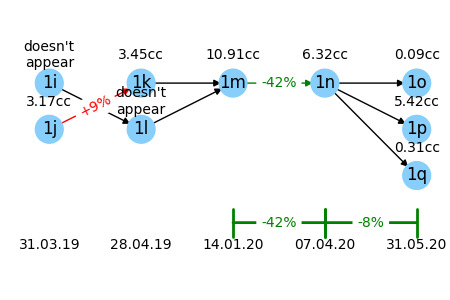
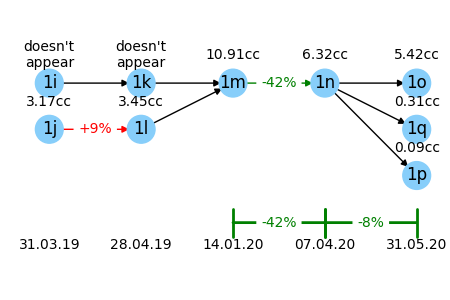
updated README.md

diff --git a/app.py b/app.py
@@ -182,6 +182,11 @@ def main():
                 if is_cc_non_consecutive:
                     st.session_state.non_consecutive_elements += st.session_state.cc_elements_dict[cc_idx]
 
+            # the case of no non-consecutive lesions: only title in the list
+            if len(st.session_state.non_consecutive_elements) == 1:
+                st.session_state.non_consecutive_elements += \
+                    get_sub_title('This patient has no non consecutive lesions.')
+
         for element in st.session_state.non_consecutive_elements:
             display_element(element)
     # ******************************************************************************************************************
@@ -195,6 +200,11 @@ def main():
                 # _, _, _, pattern = st.session_state.cc_info_dict[cc_idx]
                 # print(pattern)
                 # st.session_state.non_consecutive_elements += Paragraph('1')
+
+            # the case of no lone lesions: only title in the list
+            if len(st.session_state.lone_lesions_elements) == 1:
+                st.session_state.lone_lesions_elements += get_sub_title(
+                    'This patient has no lone lesions.')
 
         for element in st.session_state.lone_lesions_elements:
             display_element(element)

diff --git a/create_input/create_input_files.py b/create_input/create_input_files.py
@@ -7,7 +7,7 @@ import matplotlib.pyplot as plt
 from pathlib import Path
 
 
-DATASET_ON_CASMIP = True
+DATASET_ON_CASMIP = False
 
 def get_project_root():
     # Get the path of the current script

diff --git a/README.md b/README.md
@@ -1,7 +1,7 @@
 # 💡 Analysis and Summarization of Radiological Findings in Medical Patient Images
 
 <!-- cool project cover image -->
-![Project Cover Image](project_picture_for_readme.png)
+![Project Cover Image](project_picture_from_poster.png)
 
 <!-- table of content -->
 ## Table of Contents
@@ -11,7 +11,6 @@
 - [Prerequisites](#prerequisites)
 - [Installing](#installing)
 - [Testing](#testing)
-- [Deployment](#deployment)
 - [Built With](#built-with)
 - [Acknowledgments](#acknowledgments)
 
@@ -33,9 +32,10 @@ sequence of scans displayed onto a web app. This program involves collecting les
 We utilize tables, textual summaries, and graphic displays to showcase lesion patterns over time. 
 This allows radiologists to gather more precise information in a shorter time frame.
 
-The summary format will be interactive, allowing radiologists to customize the displayed information. In addition, 
+The summary format is interactive, allowing radiologists to customize the displayed information. In addition, 
 we generate the summary in a PDF form to support printable summary. 
 This design ensures no crucial details are omitted while avoiding overwhelming with extraneous information.
+In addition it allows the radiologist to easily open the scans visually (the app integrates with a scan display app).
 
 
 ## ⚡ Getting Started
@@ -61,34 +61,42 @@ Requirements for the software and other tools to build, test and push:
     ```bash
     pip install -r requirements.txt
     ```
-
+5. [download the DATASET folder](https://drive.google.com/drive/folders/1_WcZRCpbl7htg7E8vAInMXI5c_MQXr2T?usp=share_link) and place it under Engineering_Project (the project root).
+   
+   NOTICE: this dataset only includes a few patients due to heavy data. The complete dataset is property of the CASMIP lab and is stored in their sources.
 
 ### 🏗 Run The Program
 1. Activate the virtual environment:
     ```bash
     source ./env/bin/activate
     ```
-
-###TODO - COMPLETE
+2. Run the app
+   ```bash
+    streamlit run app.py -- --patient_name <patient name> --organ_type <organ type>
+    ```
+   The dataset you downloaded contains the following patients:
+   - patient name: 'C_A_'    organ type: 'liver' 
+   - patient name: 'A_S_S_'  organ type: 'liver'
+   - patient name: 'A_S_H_'  organ type: 'liver'
 
 ## 🧪 Testing
-Explain how to run tests for this project
+The tests verify that:
+- All the elements representing the data were successfully generated with no exceptions.
+- The web app is built successfully: it simulates a user and checks all buttons work as expected.
 
-### Sample Tests
-Explain what these tests test and why
+To run tests for this project:
+   ```bash
+    
+   ```
 
-    Give an example
-
-## 🚀 Deployment
-Add additional notes on how to deploy this on a live system
 
 ## ⚙ Built With
-  - [Based on the work of reserch group xxxx](https://www.example.com)
-  - [Contributor Covenant](https://www.contributor-covenant.org/) - Used for the Code of Conduct
-  - [Creative Commons](https://creativecommons.org/) - Used to choose the license
+Based on methods developed at CASMIP lab:
+  - [Liver lesion changes analysis in longitudinal CECT scans by simultaneous deep learning voxel classification with SimU-Net](https://www.sciencedirect.com/science/article/abs/pii/S1361841522003036)
+  - [A Graph-Theoretic Approach for Analysis of Lesion Changes and
+Lesions Detection Review in Longitudinal Oncological Imaging](https://www.google.com/url?sa=i&url=https%3A%2F%2Fconferences.miccai.org%2F2023%2Fpapers%2F309-Paper0455.html&psig=AOvVaw1AI096scwoyjR0sW-JoIAH&ust=1719994311614000&source=images&cd=vfe&opi=89978449&ved=0CAYQrpoMahcKEwioobOh9IeHAxUAAAAAHQAAAAAQBA)
 
 
 ## 🙏 Acknowledgments
-  - Hat tip to anyone whose code is used
-  - Inspiration
-  - etc
+  We would like to thank the CASMIP (HUJI) lab for their support and resources throughout this project. 
+  Special thanks to our mentor Alon Olesinski and Professor Leo Joskowicz for their essential insights and guidance. 
